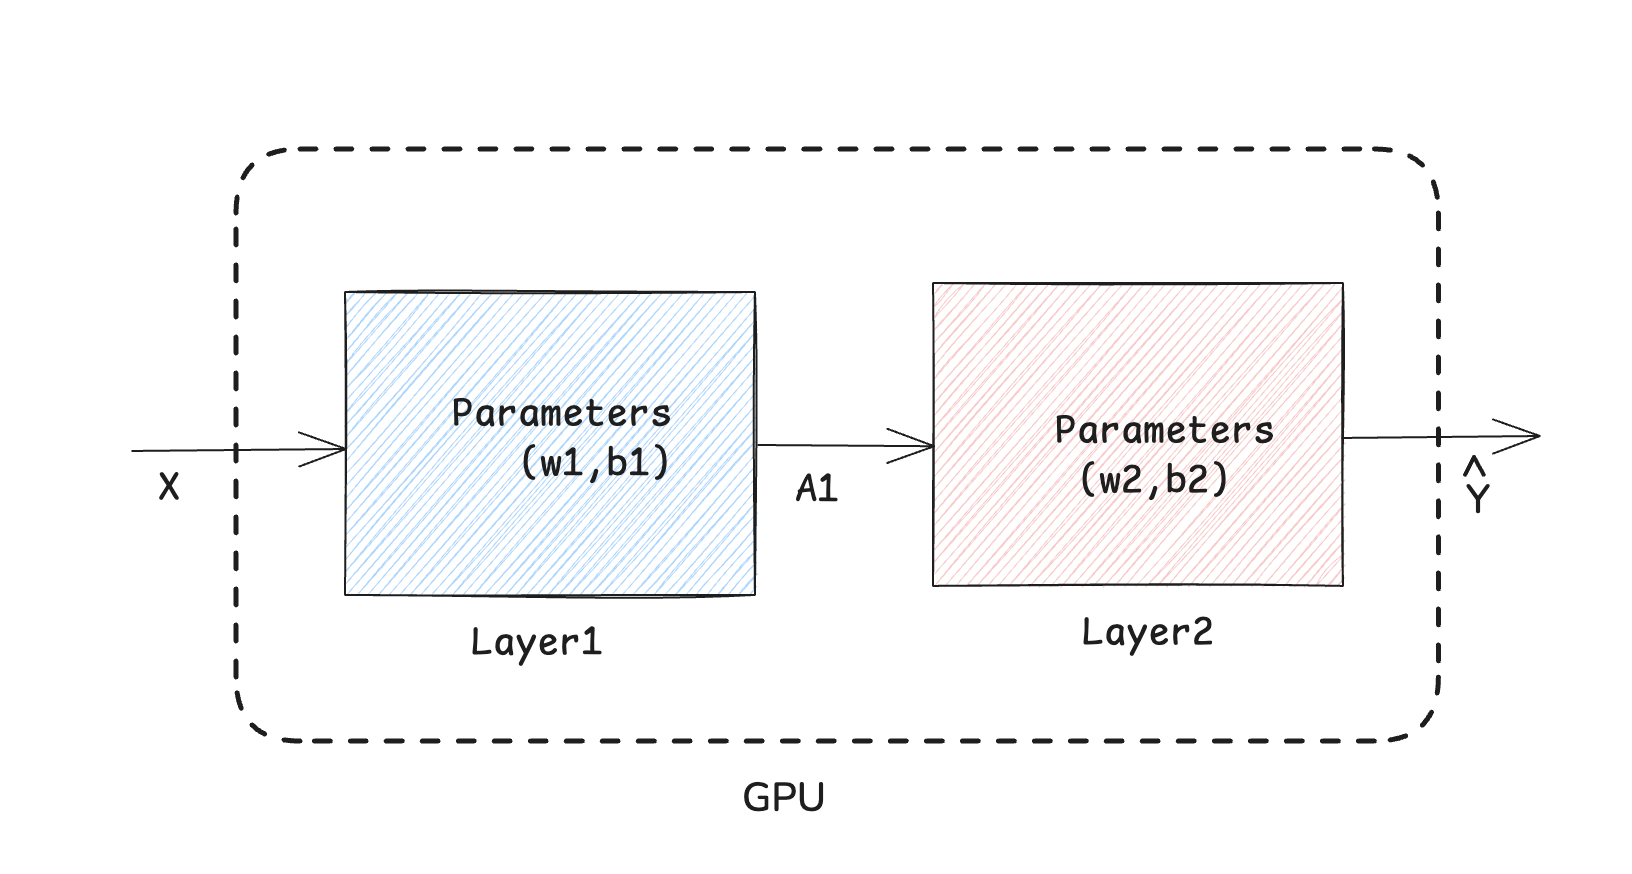
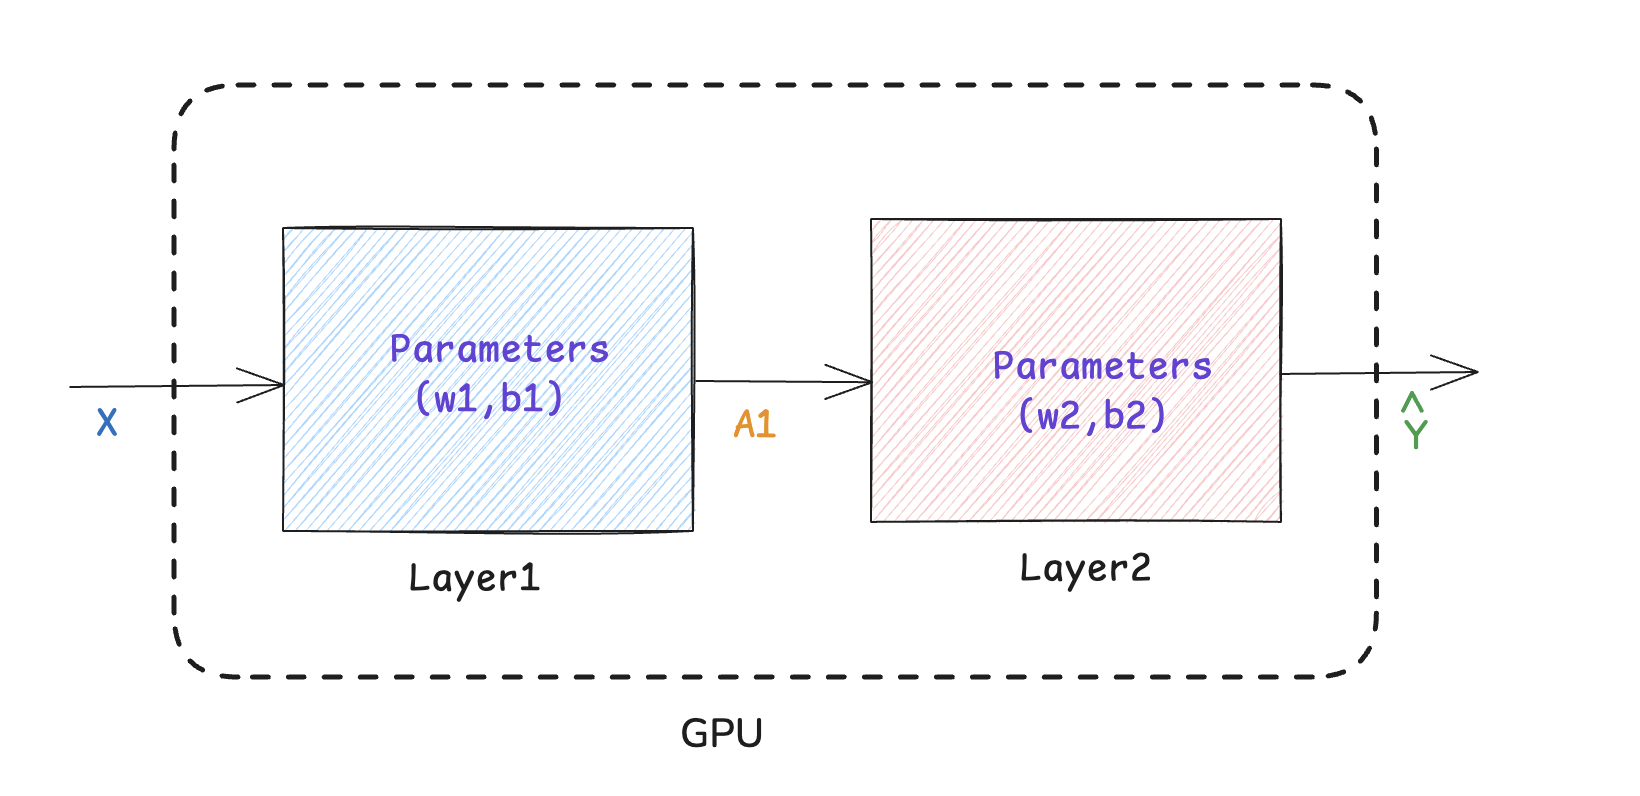
update image for forward pass

diff --git a/_includes/model-ingredients-legend.html b/_includes/model-ingredients-legend.html
@@ -1,0 +1,40 @@
+{% assign show = include.show | default: "input,parameters,activations,gradients,optimizer,output" %}
+
+<div style="display:flex; flex-wrap:wrap; gap:8px; margin-top:10px; margin-bottom:24px;">
+  {% if show contains "input" %}
+  <div style="display:flex; align-items:center; gap:6px;">
+    <div style="width:18px; height:18px; border-radius:4px; background:#185FA5;"></div>
+    <span style="font-size:13px; color:var(--global-text-color);">Input</span>
+  </div>
+  {% endif %}
+  {% if show contains "parameters" %}
+  <div style="display:flex; align-items:center; gap:6px;">
+    <div style="width:18px; height:18px; border-radius:4px; background:#534AB7;"></div>
+    <span style="font-size:13px; color:var(--global-text-color);">Parameters</span>
+  </div>
+  {% endif %}
+  {% if show contains "activations" %}
+  <div style="display:flex; align-items:center; gap:6px;">
+    <div style="width:18px; height:18px; border-radius:4px; background:#0F6E56;"></div>
+    <span style="font-size:13px; color:var(--global-text-color);">Activations</span>
+  </div>
+  {% endif %}
+  {% if show contains "gradients" %}
+  <div style="display:flex; align-items:center; gap:6px;">
+    <div style="width:18px; height:18px; border-radius:4px; background:#BA7517;"></div>
+    <span style="font-size:13px; color:var(--global-text-color);">Gradients</span>
+  </div>
+  {% endif %}
+  {% if show contains "optimizer" %}
+  <div style="display:flex; align-items:center; gap:6px;">
+    <div style="width:18px; height:18px; border-radius:4px; background:#993C1D;"></div>
+    <span style="font-size:13px; color:var(--global-text-color);">Optimizer state</span>
+  </div>
+  {% endif %}
+  {% if show contains "output" %}
+  <div style="display:flex; align-items:center; gap:6px;">
+    <div style="width:18px; height:18px; border-radius:4px; background:#3B6D11;"></div>
+    <span style="font-size:13px; color:var(--global-text-color);">Output / Loss</span>
+  </div>
+  {% endif %}
+</div>

diff --git a/index.md b/index.md
@@ -61,9 +61,15 @@ Though pytorch training loop is familiar to all of us let's refresh the process 
     {% endhighlight %}
 
 **Steps**
-1. model(input) - Forward Pass
+1. model(input) - Forward Pas
 2. loss.backward() - Backward Pass , Calculate Gradients w.r.to inputs & activations
 3. optimizer.step() - Update optimizer states (Valid for Optimizers like Adam)
 4. optimizer.zero_grad() - Reset Gradients to Zero before next batch
    
-{% include figure.liquid path="assets/img/llm-training/section-2/forward-pass-2.png" class="img-small" caption="Figure: Forward Pass" %}
+<div style="display:inline-block; width:100%;">   
+{% include figure.liquid path="assets/img/llm-training/section-2/forward-pass.png" class="img-small" caption="Figure: Forward Pass" %}
+
+    <div style="display:flex; justify-content:flex-end; margin-top:-16px; margin-bottom:24px;">
+        {% include model-ingredients-legend.html show="input,activations,output" %}
+    </div>
+</div>
